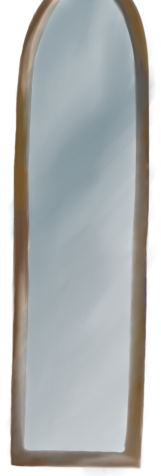
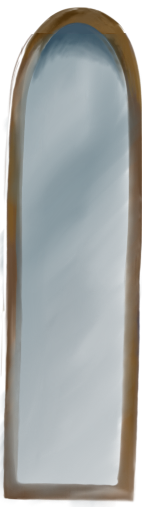
Dewers

diff --git a/dewers.html b/dewers.html
@@ -1,0 +1,34 @@
+<!DOCTYPE html>
+<html>
+
+<head>
+  <meta charset="utf-8">
+  <meta name="viewport" content="width=device-width,
+    initial-scale=1">
+  <link rel="stylesheet" href="css/geral.css">
+  <link rel="stylesheet" href="css/dewers.css">
+  <title> TheMisteryOfDartmoor </title>
+
+  <script>
+    window.onresize = function() {
+      window.resizeTo(1200, 700);
+    }; 
+  </script>
+</head>
+
+<body>
+  <header>
+    <a href="homepage.html"> MAP </a>
+  </header>
+
+  <main>
+    <img id="florest" src="images/dewers/florest.png" height="100%" width="100%" alt="florest">
+    <img id="footprints" src="images/dewers/footprints.png" width="13%" alt="wall">
+    <img id="warning" src="images/dewers/warning.png" width="20%" alt="table">
+    <img id="dog" src="images/dewers/dog.png" width="20%" alt="dog">
+  </main>
+  
+  <div id="dark_overlay"></div>
+
+  <script src="javascript/dewers.js"></script>
+</body>

diff --git a/house.html b/house.html
@@ -18,6 +18,7 @@
 
 <body>
   <header>
+    <a href="homepage.html"> MAP </a>
   </header>
 
   <main>
@@ -25,7 +26,7 @@
     <img id="wall_right" src="images/house/wall_right.png" height="100%" width="100%" alt="wall">
     <img id="wall_left" src="images/house/wall_left.png" height="100%" width="100%" alt="wall">
     <img id="table" src="images/house/table.png" width="100%" alt="table">
-    <img id="mirror" src="images/house/mirror.png" width="10%" alt="mirror">
+    <img id="mirror" src="images/house/mirror.png" width="8%" alt="mirror">
     <img id="cabinet" src="images/house/cabinet.png" width="15%" alt="cabinet">
     <img id="tv" src="images/house/tv_off.png" width="20%" alt="tv" 
          onmouseover="this.src='images/house/tv_off_mov.png'" 

diff --git a/javascript/dewers.js b/javascript/dewers.js
@@ -1,0 +1,22 @@
+let overlay = document.getElementById('dark_overlay');
+
+document.addEventListener('mousemove', function (e) {
+    let x = e.clientX;
+    let y = e.clientY;
+    overlay.style.setProperty('--x', `${x}px`);
+    overlay.style.setProperty('--y', `${y}px`);
+});
+
+let dog = document.getElementById('dog');
+let hideTimeout;
+
+dog.addEventListener('mouseenter', () => {
+    hideTimeout = setTimeout(() => {
+        dog.style.opacity = '0';  // Torna invisível
+        dog.style.pointerEvents = 'none'; // Impede interação
+    }, 1000); // 1 segundo
+});
+
+dog.addEventListener('mouseleave', () => {
+    clearTimeout(hideTimeout); // Se o rato sair antes dos 2s, cancela
+});

diff --git a/css/dewers.css b/css/dewers.css
@@ -1,0 +1,30 @@
+#florest {
+    top: 0;
+    left: 0;
+}
+
+#warning {
+    bottom: 0;
+    left: 10%;
+}
+
+#dog {
+    bottom: 12%;
+    right: 38%;
+}
+
+#footprints {
+    bottom: 12%;
+    left: 39%
+}
+
+#dark_overlay {
+    position: fixed;
+    top: 0;
+    left: 0;
+    width: 100vw;
+    height: 100vh;
+    pointer-events: none;
+    background: radial-gradient(circle 200px at var(--x, 50%) var(--y, 50%), transparent 0%, rgba(0, 0, 0, 0.95) 100%);
+    z-index: 10;
+  }

diff --git a/homepage.html b/homepage.html
@@ -11,10 +11,6 @@
 </head>
 
 <body>
-  <header>
-    <h1> Select the location you want to explore </h1>
-  </header>
-
   <main>
       <a href="#"> <img id="dewer" src="images/homepage/dewer.png" width="30%" alt="map"> </a>
       <a href="#"> <img id="baskerville" src="images/homepage/baskerville.png" width="50%" alt="map"> </a>

diff --git a/css/geral.css b/css/geral.css
@@ -12,3 +12,18 @@ html, body {
     overflow: hidden;
     margin: 0;
 }
+
+header {
+    position: absolute;
+    display: flex;
+    z-index: 12;
+    width: 95%;
+    justify-content: end;
+    padding: 3%;
+}
+
+header > a {
+    color: #E1D0BC;
+    font-size: 1.58rem; 
+    text-decoration: none;
+}

diff --git a/css/house_drawer.css b/css/house_drawer.css
@@ -16,3 +16,11 @@ html {
     left: 30%;
     top: 30%;
 }
+
+#gun:hover {
+    transform: rotate(-10deg);
+  }
+
+  #photograph:hover {
+    transform: rotate(10deg);
+  }

diff --git a/css/homepage.css b/css/homepage.css
@@ -3,6 +3,7 @@ header > h1 {
     justify-content: center;
     align-items: center;
     height: 100vh;
+    width: 100vw;
 } 
 
 main > a > img {

diff --git a/house_book.html b/house_book.html
@@ -12,6 +12,7 @@
 
 <body>
   <header>
+    <a href="house.html"> GO BACK </a>
   </header>
 
   <main>

diff --git a/house_drawer.html b/house_drawer.html
@@ -12,6 +12,7 @@
 
 <body>
   <header>
+    <a href="house.html"> GO BACK </a>
   </header>
 
   <main>

diff --git a/css/house.css b/css/house.css
@@ -29,7 +29,7 @@ html {
 
 #mirror {
     left: 20%;
-    top: 0;
+    top: 5%;
 }
 
 #cabinet {
